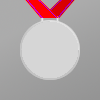
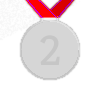
customisation is 2 layers

diff --git a/fn/configMenu.js b/fn/configMenu.js
@@ -1,25 +1,35 @@
 const db = require.main.require('./models');
 const { ActionRowBuilder, ButtonBuilder, ButtonStyle, SelectMenuBuilder } = require('discord.js');
 
-const colourRandomisers = new ActionRowBuilder()
-        .addComponents(
-            new ButtonBuilder()
-                .setCustomId('colour0')
-                .setLabel('Randomise colour 1')
-                .setStyle(ButtonStyle.Secondary),
-        )
-        .addComponents(
-            new ButtonBuilder()
-                .setCustomId('colour1')
-                .setLabel('Randomise colour 2')
-                .setStyle(ButtonStyle.Secondary),
-        )
-        .addComponents(
-            new ButtonBuilder()
-                .setCustomId('colour2')
-                .setLabel('Randomise both colours')
-                .setStyle(ButtonStyle.Secondary),
+const styleSelector = new ActionRowBuilder()
+    .addComponents(
+        new SelectMenuBuilder()
+            .setCustomId('style')
+            .setPlaceholder('Overlay')
+            .addOptions(['None', 'Diagonal', 'Circle', 'Waves', 'Stripes'].map(i => ({
+                label: i,
+                value: i.toLowerCase(),
+            }))),
         );
+const colourRandomisers = new ActionRowBuilder()
+    .addComponents(
+        new ButtonBuilder()
+            .setCustomId('colour0')
+            .setLabel('Randomise colour 1')
+            .setStyle(ButtonStyle.Secondary),
+    )
+    .addComponents(
+        new ButtonBuilder()
+            .setCustomId('colour1')
+            .setLabel('Randomise colour 2')
+            .setStyle(ButtonStyle.Secondary),
+    )
+    .addComponents(
+        new ButtonBuilder()
+            .setCustomId('colour2')
+            .setLabel('Randomise both colours')
+            .setStyle(ButtonStyle.Secondary),
+    );
 
 module.exports = async interaction => {
     let pseudoPlayer = await db.Player.build({
@@ -31,37 +41,22 @@ module.exports = async interaction => {
     pseudoPlayer.name = interaction.user.username;
     await pseudoPlayer.getConfig();
 
-    let imagesAvailable = await db.Image.findAll({where: {user: interaction.user.id}});
-
-    let styleOptions = ['Diagonal', 'Circle', 'Waves', 'Stripes'];
-    if (imagesAvailable.length > 0) {
-        imagesAvailable = [{name: 'white'}, ...imagesAvailable];
-        styleOptions.push('Image');
-    }
-    let styleSelect = new ActionRowBuilder()
-        .addComponents(
-            new SelectMenuBuilder()
-                .setCustomId('style')
-                .setPlaceholder('Style')
-                .addOptions(styleOptions.map(i => ({
-                    label: i,
-                    value: i.toLowerCase(),
-                }))),
-        );
-
     return {
         content: '',
         files: [(await pseudoPlayer.render()).toBuffer('image/png')],
-        components: [styleSelect, pseudoPlayer.config.style == 'image' ? new ActionRowBuilder()
-            .addComponents(
-                new SelectMenuBuilder()
-                    .setCustomId('image')
-                    .setPlaceholder('Image')
-                    .addOptions(imagesAvailable.map(i => ({
-                        label: i.name.slice(0,1).toUpperCase() + i.name.slice(1),
-                        value: i.name,
-                    }))),
-            )
-        : colourRandomisers],
+        components: [
+            new ActionRowBuilder()
+                .addComponents(
+                    new SelectMenuBuilder()
+                        .setCustomId('image')
+                        .setPlaceholder('Background')
+                        .addOptions([{name: 'white'}, ...await db.Image.findAll({where: {user: interaction.user.id}})].map(i => ({
+                            label: i.name.slice(0,1).toUpperCase() + i.name.slice(1),
+                            value: i.name,
+                        }))),
+                ),
+            styleSelector,
+            colourRandomisers
+        ],
     };
 }

diff --git a/models/player/render.js b/models/player/render.js
@@ -8,11 +8,15 @@ const gradientOpacity = '50'; //hex
 const images = {
     heart: [loadImage('./heartempty.png'), loadImage('./heartfull.png')],
     icons: {
-        white: createCanvas(size, size),
+        white: loadImage('./icons/white.png'),
         battlebot: loadImage('./icons/battlebot.png'),
+        player: loadImage('./icons/player.png'),
         first: loadImage('./icons/first.png'),
         second: loadImage('./icons/second.png'),
         third: loadImage('./icons/third.png'),
+        sharer: loadImage('./icons/groupwin.png'),
+        skull: loadImage('./icons/death.png'),
+        clock: loadImage('./icons/clock.png'),
         dev: loadImage('./icons/dev.png'),
     },
 };
@@ -44,8 +48,7 @@ db.Player.prototype.render = async function() {
 
     //background
     await this.getConfig();
-    ctx.fillStyle = '#ffffff';
-    ctx.fillRect(0, 0, size, size);
+    ctx.drawImage(await images.icons[this.config.image], 0, 0, size, size);
     switch (this.config.style) {
         case 'diagonal':
             ctx.fillStyle = ctx.createLinearGradient(0, 0, size, size);
@@ -64,7 +67,7 @@ db.Player.prototype.render = async function() {
 
         case 'waves':
             ctx.fillStyle = ctx.createRadialGradient(size/2, size/2, size/10, size/2, size/2, size*1.25);
-            for (let i = 0; i < 1.2; i += 0.2) {
+            for (let i = 0.2; i < 1.2; i += 0.2) {
                 ctx.fillStyle.addColorStop(i, `#${this.config.colour1}${gradientOpacity}`);
                 ctx.fillStyle.addColorStop(i+0.1, `#${this.config.colour2}${gradientOpacity}`);
             }
@@ -79,9 +82,8 @@ db.Player.prototype.render = async function() {
             }
             break;
 
-        case 'image':
-            ctx.drawImage(await images.icons[this.config.image], 0, 0, size, size);
-            ctx.fillStyle = '#00000000';
+        case 'none':
+            ctx.fillStyle = 'transparent';
             break;
     }
     ctx.fillRect(0, 0, size, size);
@@ -98,7 +100,7 @@ db.Player.prototype.render = async function() {
 
     //draw player hearts
     if (this.health > maxHearts) {
-        ctx.drawImage(await images.heart[1], (size/(maxHearts+1))-(heartSize/2), size*0.7, heartSize, heartSize);
+        ctx.drawImage(await images.heart[1], size*0.2, size*0.7, heartSize, heartSize);
         ctx.font = `${size*0.21}px Arial`;
         ctx.fillText(`x${this.health}`, (size/(maxHearts+1))*2.8-(heartSize/2), size*0.8);
     } else

diff --git a/README.md b/README.md
@@ -1,5 +1,8 @@
 # battlebot
 a discord bot based on [tank turn tactics](https://gdcvault.com/play/1017744)
+[game rules](https://battlebot.ocean.lol/)
+[invite the bot to your server](https://discord.com/api/oauth2/authorize?client_id=869182949826904076&permissions=8192&scope=bot%20applications.commands)
+we also have a server where we regularly play games of this. [play with us!](https://discord.gg/KXgz9KBnga)
 
 ## setup
 1. `npm ci`
